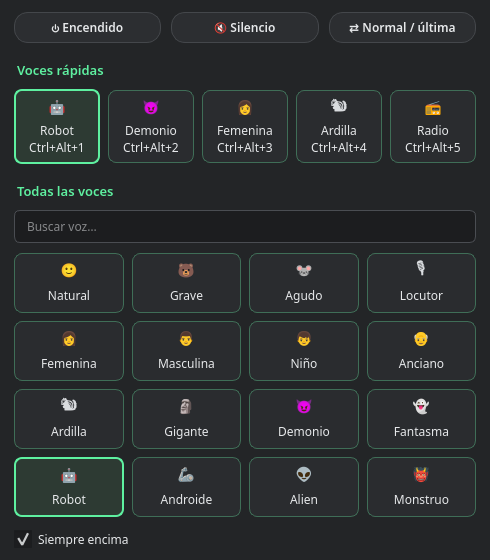
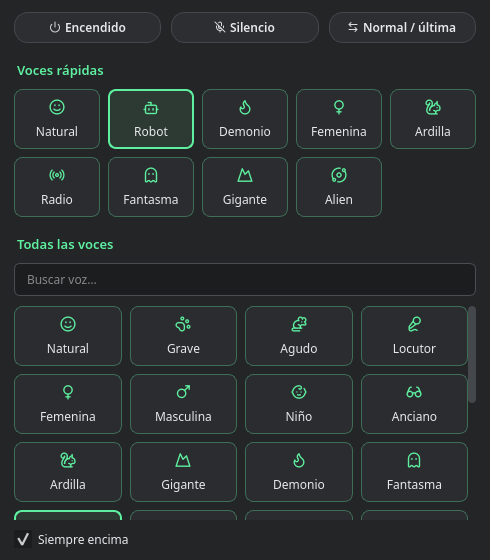
README: nuevas capturas y descripción de la app actual
Capturas de todas las secciones (Panel, Voz conf, Mejora, Voces, Sonidos,
Atajos) y de las ventanas rápidas. Descripción al día: Panel con casillas
rápidas y medidores, atajos por filas, iconos propios, Hyprland y
guardado automático.

diff --git a/README.md b/README.md
@@ -2,9 +2,9 @@
 
 **Tu voz entra en el vacío… y sale convertida en otra.**
 
-Void of Voices cambia tu voz **mientras hablas**: puedes sonar como un robot, un demonio, una ardilla, un locutor de radio o un fantasma. También lanza sonidos de reacción (aplausos, trombón triste, ba-dum-tss…) en mitad de la partida o del directo. Tus amigos te oyen en **Discord, OBS, juegos o cualquier app** que use el micrófono.
+Void of Voices cambia tu voz **mientras hablas**: puedes sonar como un robot, un demonio, una ardilla, un locutor de radio o un fantasma. Además lanza sonidos de reacción (aplausos, trombón triste, ba-dum-tss…) en mitad de la partida o del directo. Tus amigos te oyen en **Discord, OBS, juegos o cualquier app** que use el micrófono.
 
-![Void of Voices](docs/captura-microfono.png)
+![Panel de Void of Voices](docs/captura-panel.png)
 
 > 🐧 Linux · 🪟 Windows · Gratis y de código abierto · 🇪🇸 Español / 🇬🇧 English
 
@@ -20,51 +20,61 @@ Entra en **[Releases](https://github.com/daetrox/void-of-voices/releases/latest)
 | 🪟 Windows | `VoidOfVoices-…-Windows-Setup.exe` | Instálalo como cualquier programa. |
 | 🪟 Windows sin instalar | `VoidOfVoices-…-Windows-portable.zip` | Descomprime y abre `VoidOfVoices.exe`. |
 
-> **En Windows**, la primera vez la app te ofrece instalar el micrófono virtual **con un clic**. Es el driver gratuito [VB-Cable](https://vb-audio.com/Cable/): Void of Voices lo descarga de su web oficial, comprueba que es el archivo auténtico y abre su instalador. Solo tienes que pulsar *Install Driver*. En Linux no hace falta nada más.
+> **En Windows** hace falta un micrófono virtual para que las demás apps oigan tu voz cambiada: el driver gratuito [VB-Cable](https://vb-audio.com/Cable/). Si no lo tienes, Void of Voices lo descarga de su web oficial, comprueba que es el archivo auténtico y abre su instalador: solo pulsas *Install Driver*. En Linux no hace falta nada más.
 
 ## ✨ Qué puedes hacer
 
-- 🎭 **26 voces listas para usar.** Grave, aguda, femenina, masculina, niño, anciano, robot, alien, demonio, monstruo, susurro, voz de 8 bits, radio, teléfono, megáfono, bajo el agua, cueva, catedral…
-- 🎚 **Crear tu propia voz.** Mueve el tono y el timbre por separado (pasas de voz de hombre a voz de mujer sin sonar a ardilla), añade eco, reverberación, distorsión… y guárdala con tu nombre.
-- 🔊 **Soundboard con 52 sonidos reales.** Aplausos, abucheos, risas, grillos, trombón triste, bocina, gong, explosión, gato, perro… Añade los tuyos arrastrándolos a la ventana.
-- ⌨ **Atajos que funcionan dentro del juego.** Cambia de voz, silénciate o habla solo mientras mantienes una tecla, sin salir de la partida.
-- 🪟 **Ventanas pequeñas.** Un selector de voces y un panel de sonidos que puedes dejar siempre a la vista.
-- 📦 **Comparte con tus amigos.** Exporta tus voces (`.vovoice`) o un paquete con tus sonidos (`.vopack`), y ellos solo tienen que arrastrarlos a su Void of Voices.
-- 🎧 **Micrófono más limpio.** Quita el ruido de fondo con IA (el ventilador, el teclado, la calle), suaviza las «eses» que pitan y equilibra el volumen.
+- 🎭 **26 voces listas para usar:** grave, aguda, femenina, masculina, niño, anciano, robot, alien, demonio, monstruo, susurro, 8 bits, radio, teléfono, megáfono, bajo el agua, cueva, catedral…
+- 🎚 **Tu propia voz:** en *Voz conf* mueves el tono y el timbre por separado (de voz de hombre a voz de mujer sin sonar a ardilla), le añades eco, reverberación, distorsión… y la guardas con tu nombre y tu icono.
+- 🔊 **Soundboard con 52 sonidos reales:** aplausos, abucheos, risas, grillos, trombón triste, bocina, gong, explosión, gato, perro… Añade los tuyos arrastrándolos a la ventana; su icono puede ser un emoji, un icono o una imagen tuya.
+- ⚡ **Todo a mano en el Panel:** enciende, escúchate o silénciate de un clic. Tus voces y sonidos favoritos están en casillas rápidas que cambias con clic derecho, y los medidores te enseñan cuánto entra y sale.
+- ⌨ **Atajos que funcionan dentro del juego:** cualquier voz o sonido en la tecla que quieras (`F1`, `Shift+1`, `Alt+F1`…), además de silenciar, pulsar para hablar o volver a tu voz normal.
+- 🪟 **Ventanas pequeñas:** un selector de voces y un panel de sonidos que puedes dejar siempre encima del juego.
+- 🎧 **Micrófono más limpio:** quita el ruido de fondo con IA (el ventilador, el teclado, la calle), suaviza las «eses» que pitan y equilibra el volumen.
+- 📦 **Comparte con tus amigos:** exporta tus voces (`.vovoice`) o un paquete con tus sonidos (`.vopack`), y ellos solo tienen que arrastrarlos a su Void of Voices.
 
-![Banco de voces](docs/captura-voces.png)
+## 📸 Así se ve
+
+| | |
+|---|---|
+| ![Voz conf](docs/captura-vozconf.png) **Voz conf:** crea tu voz y guárdala. | ![Banco de voces](docs/captura-voces.png) **Voces:** el banco completo, más las tuyas en *Personalizadas*. |
+| ![Sonidos](docs/captura-sonidos.png) **Sonidos:** el soundboard, con buscador, volumen y paquetes. | ![Atajos](docs/captura-atajos.png) **Atajos:** una fila por voz o sonido, con la tecla que quieras. |
+| ![Mejora](docs/captura-mejora.png) **Mejora:** limpia tu micrófono con un perfil. | <img src="docs/captura-selector.png" alt="Selector de voces" width="300"> <img src="docs/captura-panel-sonidos.png" alt="Panel de sonidos" width="300"><br>**Ventanas rápidas:** selector de voces y panel de sonidos. |
 
 ## 🚀 Cómo empezar
 
-1. Abre Void of Voices, elige tu micrófono arriba y pulsa el **botón grande** para encenderlo.
+1. Abre Void of Voices, elige tu micrófono arriba y pulsa el **botón grande** del *Panel* para encenderlo.
 2. En Discord (o la app que uses), ve a *Ajustes de voz* y elige como micrófono:
    - en **Linux**: **VoidOfVoices_Mic**;
    - en **Windows**: **CABLE Output (VB-Audio)**.
-3. Elige una voz… ¡y a hacer el escándalo! 🎉
+3. Elige una voz en el *Panel*… ¡y a hacer ruido! 🎉
+
+Los ajustes se guardan solos: la próxima vez todo estará como lo dejaste.
 
 ### ⌨ Atajos de teclado
 
+En la sección **Atajos**, pulsa *＋ Añadir atajo*, elige una voz o un sonido y pulsa la tecla que quieras. Las teclas repetidas se marcan en rojo. Además vienen estos atajos generales:
+
 | Atajo | Qué hace |
 |---|---|
-| `Ctrl+Alt+0` | Voz normal ↔ última voz usada |
-| `Ctrl+Alt+1` … `Ctrl+Alt+5` | Tus 5 voces rápidas (elígelas en *Ajustes*) |
+| `Ctrl+Alt+0` | Voz normal ⇄ última voz usada |
 | `Ctrl+Alt+M` | Silenciar / activar el micrófono |
 | `Ctrl+Alt+H` | Pulsar para hablar (actívalo en *Ajustes → Micrófono*) |
 | `Ctrl+Alt+E` | Encender / apagar |
 | `Ctrl+Alt+X` | Parar todos los sonidos |
 | `Ctrl+Alt+V` / `Ctrl+Alt+B` | Abrir el selector de voces / el panel de sonidos |
 
-<img src="docs/captura-selector.png" alt="Selector de voces" width="360">
-
-En Linux, la primera vez el sistema te pedirá permiso para los atajos, y puedes cambiar las teclas en *Ajustes → Cambiar teclas en el sistema*. En Windows las cambias directamente en *Ajustes*.
+- **Linux (KDE, GNOME…):** la primera vez el sistema te pide permiso para los atajos.
+- **Hyprland:** la app pone sus teclas sola, sin pisar las tuyas, y las quita al salir.
+- **Windows:** funcionan directamente.
 
 ## ❓ Preguntas rápidas
 
-**Windows dice que la app es peligrosa o «no reconocida».**
-Es un falso positivo habitual en programas pequeños que aún no tienen firma digital de pago. El código es abierto, y GitHub compila cada versión de forma automática y pública. Si te aparece *«Windows protegió tu PC»*, pulsa *Más información → Ejecutar de todas formas*. Estamos trabajando en firmar las descargas.
-
 **No me oyen en Discord.**
-Comprueba que el botón grande pone *ENCENDIDO* y que en Discord el micrófono es *VoidOfVoices_Mic* (Linux) o *CABLE Output* (Windows).
+Comprueba que el botón grande pone *ENCENDIDO* y que en Discord el micrófono es *VoidOfVoices_Mic* (Linux) o *CABLE Output* (Windows). En Windows, desactiva también la supresión de ruido de Discord: puede «borrar» parte del efecto.
+
+**Windows dice que la app es peligrosa o «no reconocida».**
+Es un falso positivo habitual en programas pequeños sin firma digital de pago. El código es abierto, y GitHub compila cada versión de forma automática y pública. Si te aparece *«Windows protegió tu PC»*, pulsa *Más información → Ejecutar de todas formas*.
 
 **Se me oye con un poco de retraso.**
 En *Ajustes → Motor de tono*, elige *Baja latencia*. Ganas rapidez a cambio de un poco de naturalidad en los cambios de tono.
@@ -73,9 +83,7 @@ En *Ajustes → Motor de tono*, elige *Baja latencia*. Ganas rapidez a cambio de
 Ve a *Mejora* y elige el perfil *Llamada limpia* o *Streaming*.
 
 **¿Puedo cerrar la ventana?**
-Sí: Void of Voices sigue funcionando en la bandeja del sistema (junto al reloj). Para cerrarlo del todo, usa *Salir* en su menú.
-
-![Soundboard](docs/captura-sonidos.png)
+Sí: Void of Voices sigue funcionando en la bandeja del sistema (junto al reloj). Para cerrarlo del todo, usa *Salir* en su menú. En *Ajustes* también puedes hacer que arranque solo al encender el ordenador.
 
 ## 🛠 Para curiosos
 
@@ -84,7 +92,7 @@ Sí: Void of Voices sigue funcionando en la bandeja del sistema (junto al reloj)
 
 ```bash
 git clone https://github.com/daetrox/void-of-voices.git
-cd voidofvoices
+cd void-of-voices
 ./run.sh          # la primera vez prepara el entorno (Python 3.10+)
 ```
 
@@ -94,19 +102,22 @@ En Linux necesita PipeWire (o PulseAudio) con `pactl`, `parec` y `pacat`, que vi
 - Hecho en Python con PySide6 (Qt).
 - El audio va por PipeWire/PulseAudio en Linux y por WASAPI en Windows.
 - El tono y los formantes se cambian con un vocoder de fase con envolvente cepstral.
-- La supresión de ruido usa [RNNoise](https://github.com/xiph/rnnoise) y los efectos [pedalboard](https://github.com/spotify/pedalboard).
-- Las versiones para descargar se compilan solas con GitHub Actions (`.github/workflows/build.yml`).
+- La supresión de ruido usa [RNNoise](https://github.com/xiph/rnnoise) y los efectos, [pedalboard](https://github.com/spotify/pedalboard).
+- Los emojis son [Twemoji](https://github.com/mozilla/twemoji-colr) y los iconos, [Lucide](https://lucide.dev): se ven igual en cualquier sistema.
+- Las versiones para descargar se compilan solas con GitHub Actions (`.github/workflows/build.yml`), que prueba cada una en Linux y Windows antes de publicarla.
 
 | Carpeta | Qué hay |
 |---|---|
 | `voidofvoices/dsp.py` | Cadena de procesado, vocoder, RNNoise, banco de voces |
 | `voidofvoices/engine.py` | Hilo de audio (backends PipeWire y WASAPI) |
-| `voidofvoices/hotkeys.py` | Atajos globales (portal XDG / RegisterHotKey) |
+| `voidofvoices/hotkeys.py` | Atajos globales (portal XDG, Hyprland y RegisterHotKey) |
 | `voidofvoices/ui.py`, `windows.py`, `widgets.py` | Interfaz |
 | `voidofvoices/packs.py` | Exportar e importar voces y paquetes de sonidos |
 | `voidofvoices/i18n*.py` | Traducciones |
 | `sounds/` | Sonidos incluidos; `tools/fetch_sounds.py` los vuelve a descargar |
 | `packaging/` | PyInstaller, AppImage e instalador de Windows |
+
+Los cambios de cada versión están en el [CHANGELOG](CHANGELOG.md).
 
 ## 🙌 Créditos
 
